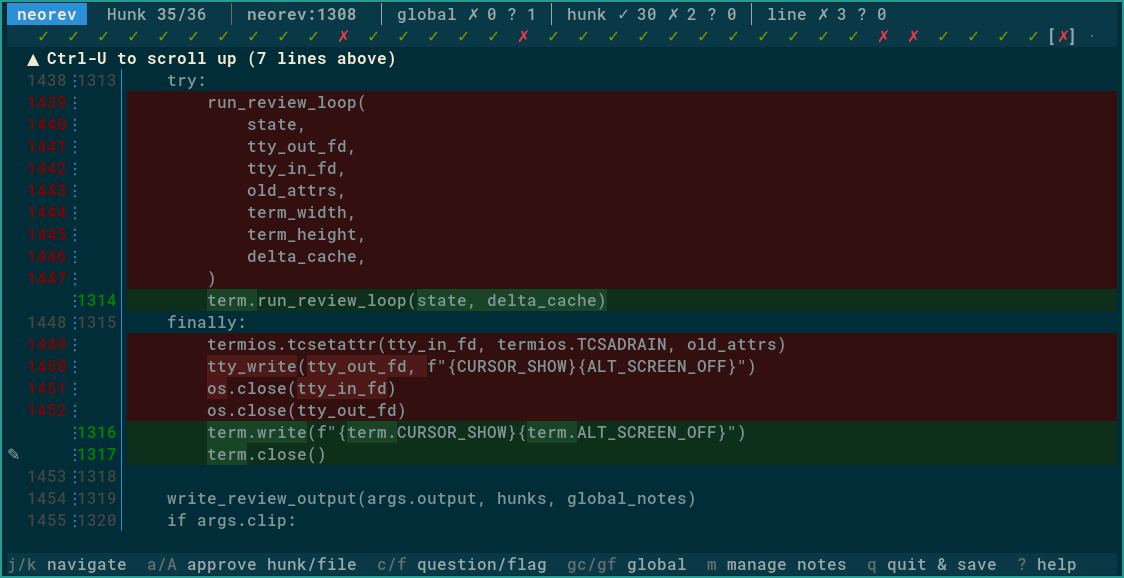
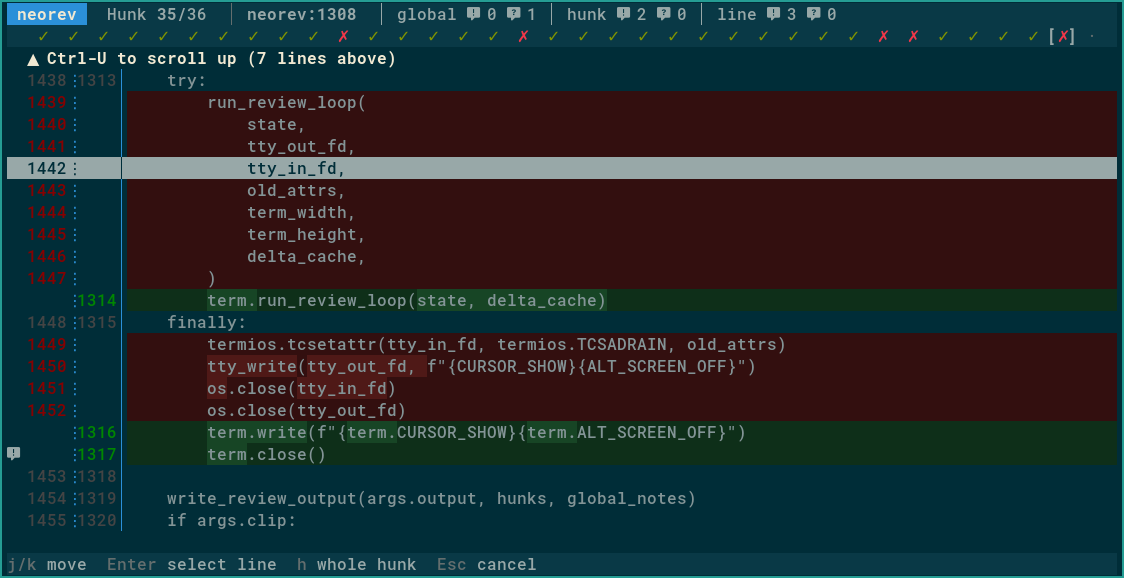
feat: ensure full lines are highlighted

diff --git a/README.md b/README.md
@@ -11,6 +11,9 @@ git diff | neorev review.txt
 claude -p "@review.txt"
 ```
 
+Main screen, selecting a line in hunk:
+![TUI](./ui.png)
+
 ## Features
 
 - Simple terminal UI optimized for efficiency
@@ -28,9 +31,6 @@ claude -p "@review.txt"
   - can be pasted directly in agent terminal
   - is unambiguous to reduce back and forth
   - is concise to reduce context window usage
-
-Main screen:
-![TUI](./ui.png)
 
 ## Why
 
